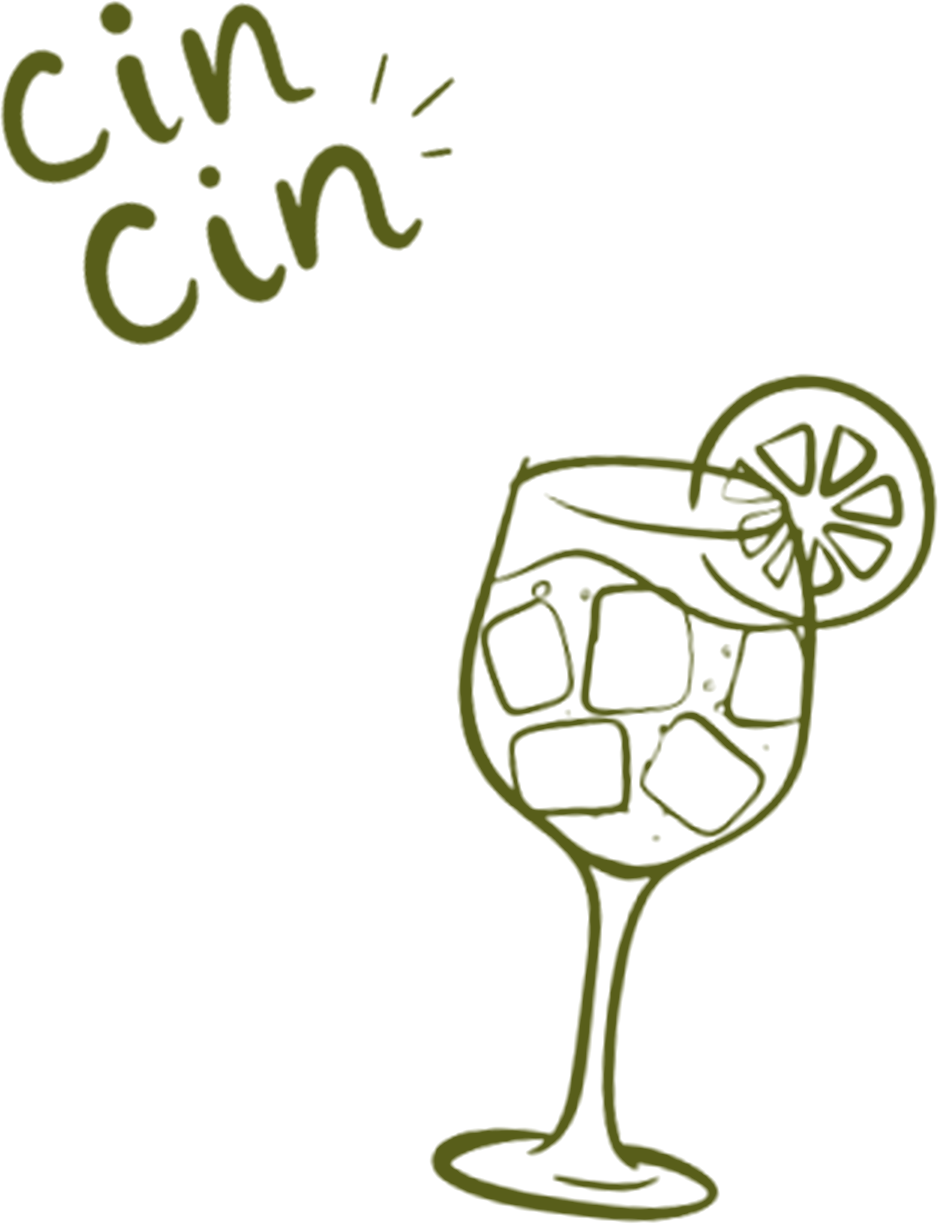
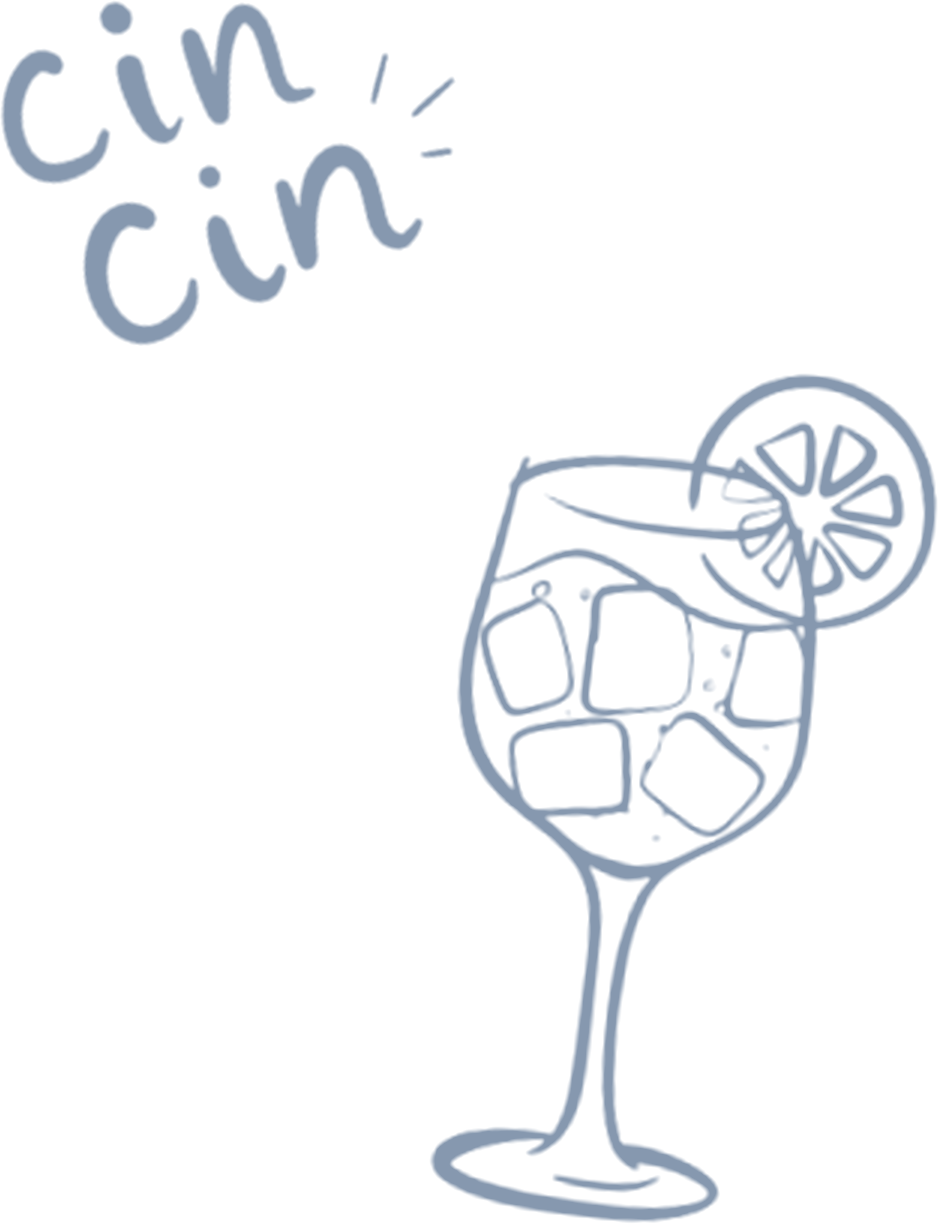
צ'ין צ'ין בכחול

diff --git a/index.html b/index.html
@@ -319,8 +319,8 @@ nav.nav-light>a:hover,nav.nav-light .nav-dropdown:hover .nav-dropdown-trigger{co
 nav.nav-light .hamburger span{background:#5E6B4C;}
 nav.mob-open.nav-light>a,nav.mob-open.nav-light .nav-dropdown-trigger{color:var(--cv-cream);}nav.mob-open.nav-light .hamburger span{background:var(--cv-cream);}
 .nav-dropdown-menu a{font-size:clamp(15px,1.4vw,18px);}
-.cv-cincin{position:absolute;left:clamp(16px,7vw,140px);top:58%;transform:translateY(-50%);width:clamp(140px,16vw,250px);height:auto;pointer-events:none;}
-@media(max-width:800px){.cv-cincin{width:90px;top:auto;bottom:18px;left:14px;transform:none;}#itinerary.cv-sec{padding-bottom:140px;}}
+.cv-cincin{position:absolute;left:clamp(40px,12vw,200px);top:58%;transform:translateY(-50%);width:clamp(140px,16vw,250px);height:auto;pointer-events:none;}
+@media(max-width:800px){.cv-cincin{width:90px;top:auto;bottom:18px;left:34px;transform:none;}#itinerary.cv-sec{padding-bottom:140px;}}
 .gallery-carousel{position:relative;max-width:1100px;margin:0 auto;}
 #galleryGrid.gallery-grid{display:flex;grid-template-columns:none;gap:clamp(12px,2vw,22px);overflow-x:auto;scroll-snap-type:x mandatory;scroll-behavior:smooth;padding-bottom:12px;scrollbar-width:thin;scrollbar-color:rgba(241,220,144,.6) transparent;-webkit-overflow-scrolling:touch;}
 #galleryGrid .gallery-item{flex:0 0 calc((100% - 2*clamp(12px,2vw,22px))/3);scroll-snap-align:start;}
@@ -492,7 +492,7 @@ footer p[style]{color:rgba(243,235,220,.5) !important;}
 
 <!-- ITINERARY -->
 <section id="itinerary" class="cv-sec cv-beige">
-  <img class="cv-cincin" src="cin-cin.png?v=1" alt="" aria-hidden="true">
+  <img class="cv-cincin" src="cin-cin.png?v=2" alt="" aria-hidden="true">
   <div class="cv-inner reveal">
     <h2 class="cv-title" dir="ltr">Wedding Weekend Timeline</h2>
     <p class="cv-sub" dir="ltr">Thursday-Saturday</p>

diff --git a/sahar-gali-wedding.html b/sahar-gali-wedding.html
@@ -319,8 +319,8 @@ nav.nav-light>a:hover,nav.nav-light .nav-dropdown:hover .nav-dropdown-trigger{co
 nav.nav-light .hamburger span{background:#5E6B4C;}
 nav.mob-open.nav-light>a,nav.mob-open.nav-light .nav-dropdown-trigger{color:var(--cv-cream);}nav.mob-open.nav-light .hamburger span{background:var(--cv-cream);}
 .nav-dropdown-menu a{font-size:clamp(15px,1.4vw,18px);}
-.cv-cincin{position:absolute;left:clamp(16px,7vw,140px);top:58%;transform:translateY(-50%);width:clamp(140px,16vw,250px);height:auto;pointer-events:none;}
-@media(max-width:800px){.cv-cincin{width:90px;top:auto;bottom:18px;left:14px;transform:none;}#itinerary.cv-sec{padding-bottom:140px;}}
+.cv-cincin{position:absolute;left:clamp(40px,12vw,200px);top:58%;transform:translateY(-50%);width:clamp(140px,16vw,250px);height:auto;pointer-events:none;}
+@media(max-width:800px){.cv-cincin{width:90px;top:auto;bottom:18px;left:34px;transform:none;}#itinerary.cv-sec{padding-bottom:140px;}}
 .gallery-carousel{position:relative;max-width:1100px;margin:0 auto;}
 #galleryGrid.gallery-grid{display:flex;grid-template-columns:none;gap:clamp(12px,2vw,22px);overflow-x:auto;scroll-snap-type:x mandatory;scroll-behavior:smooth;padding-bottom:12px;scrollbar-width:thin;scrollbar-color:rgba(241,220,144,.6) transparent;-webkit-overflow-scrolling:touch;}
 #galleryGrid .gallery-item{flex:0 0 calc((100% - 2*clamp(12px,2vw,22px))/3);scroll-snap-align:start;}
@@ -492,7 +492,7 @@ footer p[style]{color:rgba(243,235,220,.5) !important;}
 
 <!-- ITINERARY -->
 <section id="itinerary" class="cv-sec cv-beige">
-  <img class="cv-cincin" src="cin-cin.png?v=1" alt="" aria-hidden="true">
+  <img class="cv-cincin" src="cin-cin.png?v=2" alt="" aria-hidden="true">
   <div class="cv-inner reveal">
     <h2 class="cv-title" dir="ltr">Wedding Weekend Timeline</h2>
     <p class="cv-sub" dir="ltr">Thursday-Saturday</p>
